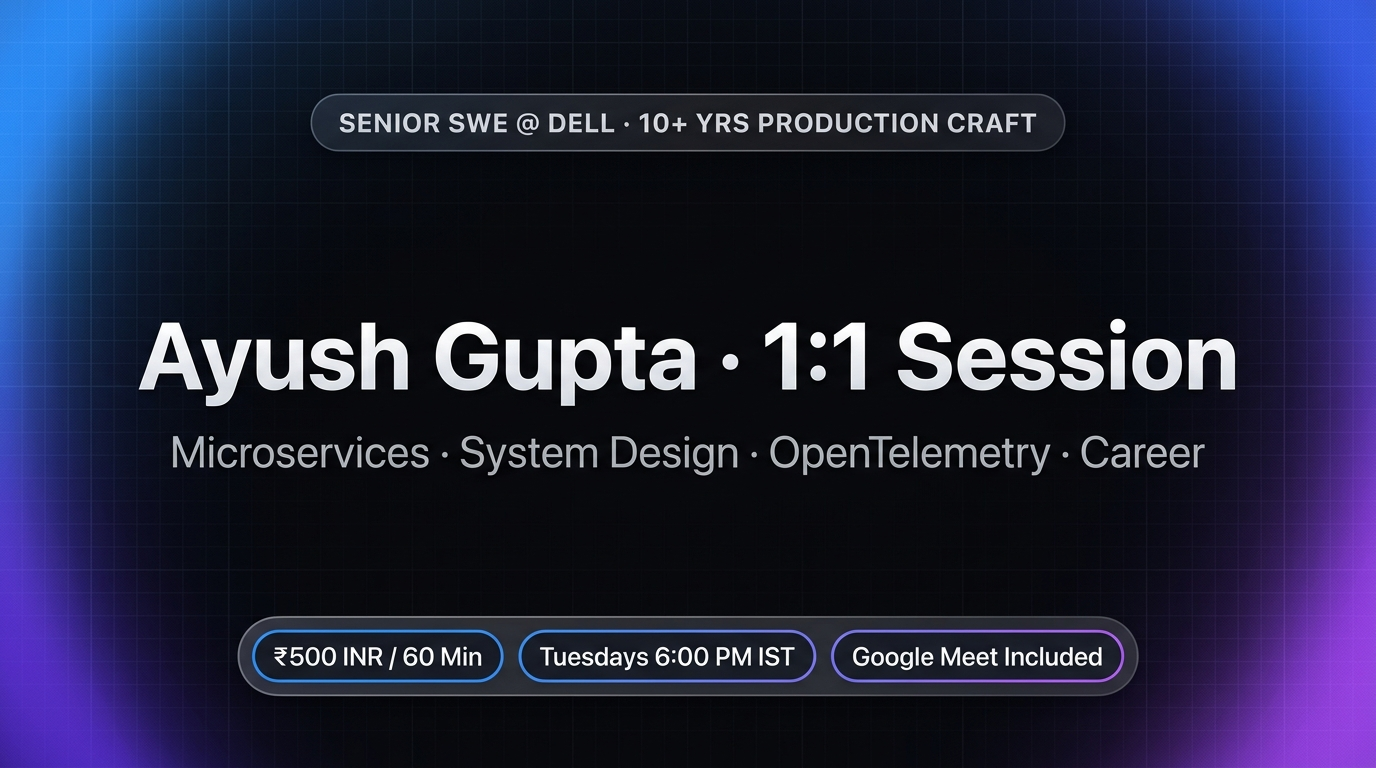
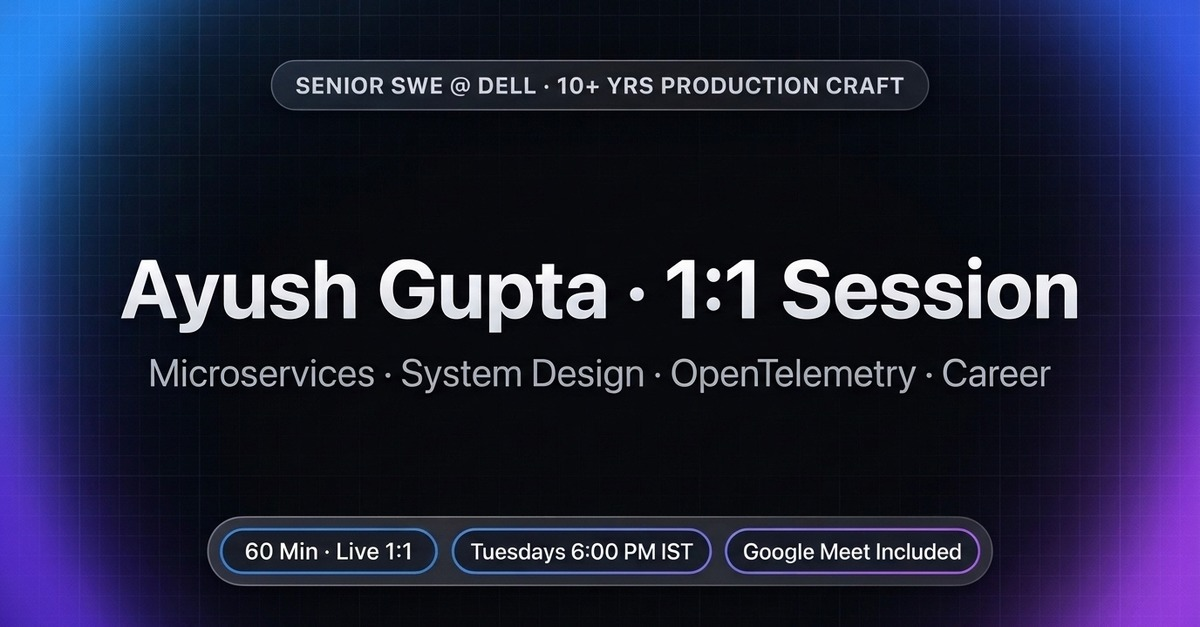
Show session fee only on final checkout page and update OG thumbnail

diff --git a/index.html b/index.html
@@ -19,10 +19,10 @@
     } catch {}
   </script>
   <title>Ayush Gupta — Series 10 · Book a 1:1 Architecture &amp; Mentorship Session</title>
-  <meta name="description" content="Meet Ayush Gupta — Senior Software Engineer at Dell Technologies (10+ yrs). Configure and book a focused 1-hour 1:1 architecture or mentorship session for ₹500 INR.">
+  <meta name="description" content="Meet Ayush Gupta — Senior Software Engineer at Dell Technologies (10+ yrs). Configure and book a focused 1-hour 1:1 architecture or mentorship session.">
   <meta property="og:type" content="website">
   <meta property="og:url" content="https://ayushbpl10.github.io/bio/">
-  <meta property="og:title" content="Ayush Gupta · Book a 1:1 Architecture &amp; Mentorship Session (₹500 / 1h)">
+  <meta property="og:title" content="Ayush Gupta · Book a 1:1 Architecture &amp; Mentorship Session">
   <meta property="og:description" content="10+ years of production craft at Dell &amp; Google-partnered Appointy. Reserve a focused 60-minute 1:1 on Tuesdays at 6:00 PM IST.">
   <meta property="og:image" content="https://ayushbpl10.github.io/bio/assets/og-thumbnail.jpg">
   <meta name="twitter:card" content="summary_large_image">
@@ -198,7 +198,7 @@
         </button>
 
         <button type="button" class="pill-btn pill-primary" data-jump-tab="tab-schedule">
-          <span>Book 1:1 · ₹500</span>
+          <span>Book 1:1</span>
         </button>
       </div>
     </nav>
@@ -272,12 +272,12 @@
 
         <p class="hero-sub">
           Bring your toughest <strong>microservices bottleneck</strong>, <strong>OpenTelemetry pipeline</strong>, or <strong>senior SDE career move</strong>.
-          Leave with a production-tested blueprint from a Senior SWE at <strong>Dell</strong> (ex-Google-partnered Appointy) — <strong>₹500 INR</strong>.
+          Leave with a production-tested blueprint from a Senior SWE at <strong>Dell</strong> (ex-Google-partnered Appointy).
         </p>
 
         <div class="hero-cta-cluster">
           <button type="button" class="cta-primary" data-jump-tab="tab-schedule">
-            <span>Reserve Your 1:1 · ₹500</span>
+            <span>Reserve Your 1:1</span>
             <span aria-hidden="true">→</span>
           </button>
           <button type="button" class="cta-secondary" data-jump-tab="tab-experience">
@@ -313,7 +313,7 @@
           </div>
           <div class="spec-cell spec-highlight">
             <dt>1:1 Deep-Dive</dt>
-            <dd>₹500 / 1h</dd>
+            <dd>60 Mins · Live</dd>
           </div>
         </dl>
       </div>
@@ -336,7 +336,6 @@
           <button type="button" role="tab" id="tab-schedule" aria-selected="false" data-hash="schedule">
             <span class="tab-glyph" aria-hidden="true">◷</span>
             <span>Schedule a Session</span>
-            <span class="tab-price-chip">₹500 / 1h</span>
           </button>
         </div>
       </div>
@@ -404,7 +403,7 @@
 
             <div class="keynote-cta reveal-item">
               <div class="keynote-cta-copy">
-                <span class="eyebrow">Limited Weekly Slots · ₹500 INR</span>
+                <span class="eyebrow">Limited Weekly Slots · 60 Mins</span>
                 <h3>Have a system design challenge or career inflection point?</h3>
                 <p>Skip generic advice. Spend one unfiltered hour dissecting your architecture, observability pipeline, or next senior engineering move.</p>
               </div>
@@ -674,7 +673,7 @@
       <div class="footer-links">
         <a href="https://www.linkedin.com/in/ayush-g-8b5b7ab8/" target="_blank" rel="noopener noreferrer">LinkedIn</a>
         <a href="https://github.com/ayushbpl10" target="_blank" rel="noopener noreferrer">GitHub</a>
-        <button type="button" class="link-btn" data-jump-tab="tab-schedule">Book 1:1 (₹500)</button>
+        <button type="button" class="link-btn" data-jump-tab="tab-schedule">Book 1:1</button>
       </div>
     </div>
   </footer>
@@ -735,7 +734,7 @@
           <kbd>2</kbd>
         </button>
         <button type="button" class="command-item" data-cmd-action="tab:tab-schedule">
-          <span>◷ Schedule a 1-Hour Session (₹500)</span>
+          <span>◷ Schedule a 1-Hour Session</span>
           <kbd>3</kbd>
         </button>
         <button type="button" class="command-item" data-cmd-action="theme:toggle">

diff --git a/app.js b/app.js
@@ -271,7 +271,7 @@ PROFILE.sessionTopics.forEach((topic, idx) => {
   num.textContent = `MODULE 0${idx + 1}`;
   const cta = document.createElement("span");
   cta.className = "module-cta";
-  cta.textContent = "Configure ₹500 →";
+  cta.textContent = "Configure Session →";
   top.append(num, cta);
 
   const title = document.createElement("span");
